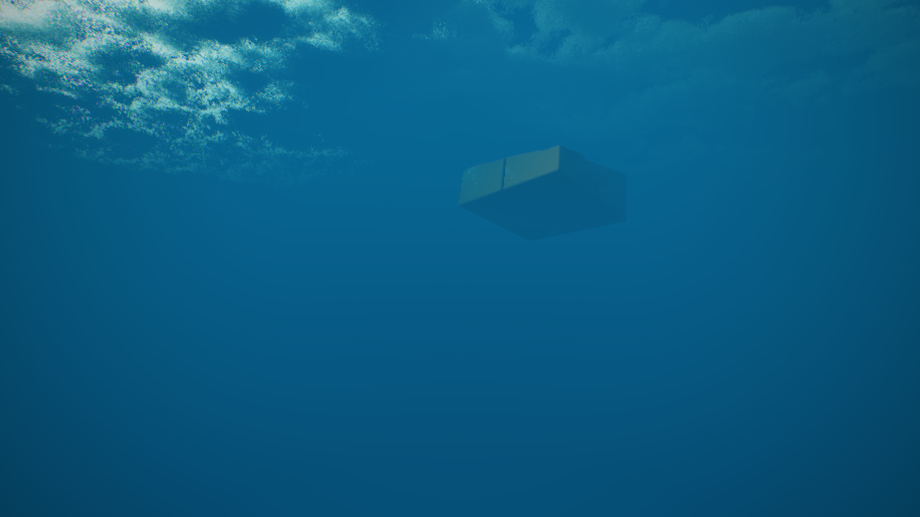
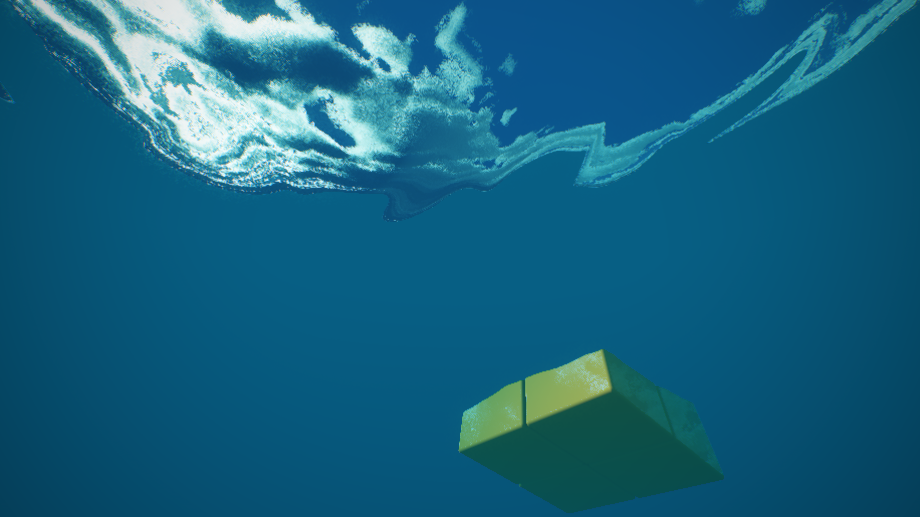
Improve Enscape underwater surface rendering

Changed region(s): [[0.0, 0.0, 1.0, 0.3714], [0.487, 0.6809, 0.7913, 0.9903]]

diff --git a/src/scene/SceneDocument.cpp b/src/scene/SceneDocument.cpp
@@ -51,6 +51,7 @@ void writeRendererSettings(Writer& writer, const RendererSettings& settings) {
     writer.Key("enscapeWaveSpeed"); writer.Double(settings.enscapeCube.waveSpeed);
     writer.Key("enscapeCloudCoverage"); writer.Double(settings.enscapeCube.cloudCoverage);
     writer.Key("enscapeReflectionStrength"); writer.Double(settings.enscapeCube.reflectionStrength);
+    writer.Key("enscapeUnderwaterClarity"); writer.Double(settings.enscapeCube.underwaterClarity);
     writer.Key("enscapeSunAzimuthDegrees"); writer.Double(settings.enscapeCube.sunAzimuthDegrees);
     writer.Key("enscapeSunElevationDegrees"); writer.Double(settings.enscapeCube.sunElevationDegrees);
     writer.Key("enscapeBloomStrength"); writer.Double(settings.enscapeCube.bloomStrength);
@@ -307,6 +308,8 @@ void readRendererSettings(const scene_json::Value& value, RendererSettings& sett
         settings.enscapeCube.cloudCoverage), 0.0f, 2.0f);
     settings.enscapeCube.reflectionStrength = std::clamp(readFloat(value,
         "enscapeReflectionStrength", settings.enscapeCube.reflectionStrength), 0.0f, 2.0f);
+    settings.enscapeCube.underwaterClarity = std::clamp(readFloat(value,
+        "enscapeUnderwaterClarity", settings.enscapeCube.underwaterClarity), 0.25f, 3.0f);
     settings.enscapeCube.sunAzimuthDegrees = std::clamp(readFloat(value,
         "enscapeSunAzimuthDegrees", settings.enscapeCube.sunAzimuthDegrees), -180.0f, 180.0f);
     settings.enscapeCube.sunElevationDegrees = std::clamp(readFloat(value,

diff --git a/tests/SceneDocumentTests.cpp b/tests/SceneDocumentTests.cpp
@@ -41,6 +41,7 @@ int main() {
         source.renderer.enscapeCube.waveSpeed = 1.3f;
         source.renderer.enscapeCube.cloudCoverage = 0.7f;
         source.renderer.enscapeCube.reflectionStrength = 1.4f;
+        source.renderer.enscapeCube.underwaterClarity = 1.7f;
         source.renderer.enscapeCube.sunAzimuthDegrees = -75.0f;
         source.renderer.enscapeCube.sunElevationDegrees = 36.0f;
         source.renderer.enscapeCube.bloomStrength = 1.6f;
@@ -233,6 +234,7 @@ int main() {
                 && close(a.waveSpeed, b.waveSpeed)
                 && close(a.cloudCoverage, b.cloudCoverage)
                 && close(a.reflectionStrength, b.reflectionStrength)
+                && close(a.underwaterClarity, b.underwaterClarity)
                 && close(a.sunAzimuthDegrees, b.sunAzimuthDegrees)
                 && close(a.sunElevationDegrees, b.sunElevationDegrees)
                 && close(a.bloomStrength, b.bloomStrength)
@@ -321,6 +323,7 @@ int main() {
                         && close(example.camera.target.z, -0.64f)
                         && close(example.camera.fieldOfViewDegrees, 71.0753556f)
                         && close(example.renderer.enscapeCube.waveHeight, 0.6f)
+                        && close(example.renderer.enscapeCube.underwaterClarity, 1.0f)
                         && close(example.renderer.enscapeCube.sunAzimuthDegrees, -53.1301f),
                         "ocean study must save the engine camera and GLSL defaults");
                 }

diff --git a/src/render/EnscapeCubeRenderer.cpp b/src/render/EnscapeCubeRenderer.cpp
@@ -152,6 +152,7 @@ void EnscapeCubeRenderer::draw(Shader& shader, unsigned int framebuffer,
     shader.setFloat("uWaveSpeed", parameters.waveSpeed);
     shader.setFloat("uCloudCoverage", parameters.cloudCoverage);
     shader.setFloat("uReflectionStrength", parameters.reflectionStrength);
+    shader.setFloat("uUnderwaterClarity", parameters.underwaterClarity);
     constexpr float degreesToRadians = 0.017453292519943295f;
     const float azimuth = parameters.sunAzimuthDegrees * degreesToRadians;
     const float elevation = parameters.sunElevationDegrees * degreesToRadians;
@@ -184,9 +185,9 @@ void EnscapeCubeRenderer::render(RenderTarget& target, const Camera& camera,
         }
     }
     const auto& parameters = settings.enscapeCube;
-    const std::array<float, 10> parameterKey{parameters.waveHeight,
+    const std::array<float, 11> parameterKey{parameters.waveHeight,
         parameters.waveFrequency, parameters.waveChoppiness, parameters.waveSpeed,
-        parameters.cloudCoverage, parameters.reflectionStrength,
+        parameters.cloudCoverage, parameters.reflectionStrength, parameters.underwaterClarity,
         parameters.sunAzimuthDegrees, parameters.sunElevationDegrees,
         parameters.bloomStrength, parameters.exposure};
     if (!parametersValid_ || parameterKey != previousParameters_) historyValid_ = false;

diff --git a/src/app/Application.cpp b/src/app/Application.cpp
@@ -2032,6 +2032,7 @@ void Application::drawInspectorPanel() {
                 changed |= EditorUi::SliderFloat(EditorUi::label("GLSL wave speed"), &ocean.waveSpeed, 0.0f, 2.0f, "%.2f");
                 changed |= EditorUi::SliderFloat(EditorUi::label("GLSL cloud coverage"), &ocean.cloudCoverage, 0.0f, 2.0f, "%.2f");
                 changed |= EditorUi::SliderFloat(EditorUi::label("GLSL reflection"), &ocean.reflectionStrength, 0.0f, 2.0f, "%.2f");
+                changed |= EditorUi::SliderFloat(EditorUi::label("GLSL underwater clarity"), &ocean.underwaterClarity, 0.25f, 3.0f, "%.2f");
                 changed |= EditorUi::SliderFloat(EditorUi::label("GLSL sun azimuth"), &ocean.sunAzimuthDegrees, -180.0f, 180.0f, "%.0f deg");
                 changed |= EditorUi::SliderFloat(EditorUi::label("GLSL sun elevation"), &ocean.sunElevationDegrees, 1.0f, 85.0f, "%.0f deg");
                 changed |= EditorUi::SliderFloat(EditorUi::label("GLSL bloom"), &ocean.bloomStrength, 0.0f, 3.0f, "%.2f");

diff --git a/src/app/EditorUi.h b/src/app/EditorUi.h
@@ -115,6 +115,7 @@ inline const char* label(const char* key) {
     {"GLSL wave speed", "GLSL 波浪速度###GLSL wave speed"},
     {"GLSL cloud coverage", "GLSL 云量###GLSL cloud coverage"},
     {"GLSL reflection", "GLSL 反射强度###GLSL reflection"},
+    {"GLSL underwater clarity", "GLSL 水下清晰度###GLSL underwater clarity"},
     {"GLSL sun azimuth", "GLSL 太阳方位角###GLSL sun azimuth"},
     {"GLSL sun elevation", "GLSL 太阳仰角###GLSL sun elevation"},
     {"GLSL bloom", "GLSL 泛光强度###GLSL bloom"},

diff --git a/src/render/Renderer.h b/src/render/Renderer.h
@@ -131,6 +131,7 @@ struct EnscapeCubeSettings {
     float waveSpeed{0.8f};
     float cloudCoverage{1.0f};
     float reflectionStrength{1.0f};
+    float underwaterClarity{1.0f};
     float sunAzimuthDegrees{143.1301f};
     float sunElevationDegrees{24.2277f};
     float bloomStrength{1.0f};

diff --git a/src/render/EnscapeCubeRenderer.h b/src/render/EnscapeCubeRenderer.h
@@ -45,6 +45,6 @@ private:
     bool cameraValid_{false};
     bool parametersValid_{false};
     glm::mat4 previousViewProjection_{1.0f};
-    std::array<float, 10> previousParameters_{};
+    std::array<float, 11> previousParameters_{};
     float previousTime_{0.0f};
 };

diff --git a/docs/enscape-ocean-study.md b/docs/enscape-ocean-study.md
@@ -6,15 +6,15 @@
 
 方块仍是 Buffer A 内的 SDF，与编辑器实体/物理系统没有连接，也不随波浪做浮力运动。海面、折射和接触效果仍按原 GLSL 绘制。该模式使用自己的时域抗锯齿，渲染目标按 1× 分配。
 
-相机射线现在由项目 `Camera` 的位置、前/右/上基向量及 FOV 生成，因此编辑器的轨道旋转、平移、WASD 移动、Shift 下降、Space 上升、缩放和 FOV 设置都会改变 GLSL 画面。示例场景保存了与参考构图接近的初始机位和左侧日光。相机矩阵、视口大小、时间或 GLSL 参数变化时会清除 TAA 历史，避免移动中的旧画面残影。相机下潜时改用简化水下透射与雾色分支，避免原代码在水面下出现灰色空白；这不是完整的水下物理模拟。
+相机射线现在由项目 `Camera` 的位置、前/右/上基向量及 FOV 生成，因此编辑器的轨道旋转、平移、WASD 移动、Shift 下降、Space 上升、缩放和 FOV 设置都会改变 GLSL 画面。示例场景保存了与参考构图接近的初始机位和左侧日光。相机矩阵、视口大小、时间或 GLSL 参数变化时会清除 TAA 历史，避免移动中的旧画面残影。相机下潜时，Shader 会求取到动态波面的交点，按局部法线进行水到空气的折射和全反射判断，并分别对天空与方块施加随水中距离变化的吸收及散射。它仍是独立 GLSL 场景的近似水下效果，并非完整的水下物理模拟。
 
-Inspector 的 **Lighting & environment → GLSL 海面参数** 可调整波高、波纹频率、波峰陡度、波速、云量、反射强度、太阳方位/仰角、泛光和曝光。数值随 `.myscene` 保存与重新加载。普通渲染路径的 SSAO、HDRI 天空盒和海面滑块仍不作用于此独立 GLSL 模式。
+Inspector 的 **Lighting & environment → GLSL 海面参数** 可调整波高、波纹频率、波峰陡度、波速、云量、反射强度、水下清晰度、太阳方位/仰角、泛光和曝光。水下清晰度控制吸收距离，数值越高水下看得越远。数值随 `.myscene` 保存与重新加载。普通渲染路径的 SSAO、HDRI 天空盒和海面滑块仍不作用于此独立 GLSL 模式。
 
 ![GLSL 海面研究场景](media/p1a-enscape-ocean-study.png)
 
-![相机下潜后的简化水下视图](media/p1a-enscape-underwater.png)
+![相机从水下仰视动态波面与方块](media/p1a-enscape-underwater.png)
 
-水下图用同一场景的临时副本，将 `camera.target.y` 改为 `-1.2`，保持 yaw、pitch、distance 不变；以同样的 `920×517` 截图命令采集，TAA 预热 2 帧。
+水下图用同一场景的临时副本，将 `camera.target.y` 改为 `4.0`、`camera.pitchDegrees` 改为 `-35.0`，使实际相机位于水面下约 `0.8` 米并向上观察；以同样的 `920×517` 截图命令采集，TAA 预热 4 帧。临时副本和测试输出放在构建目录，不改变示例场景的起始机位。
 
 图示在 NVIDIA RTX 4060 Laptop、OpenGL 3.3、`920×517`、保存时间 `1.25 s`、TAA 预热 4 帧后采集：
 
